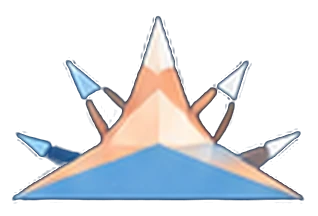
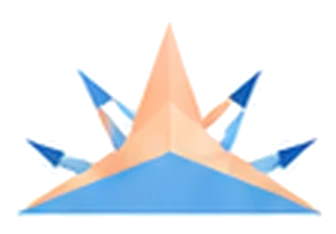
Front page follows Rune's second mockup: bars in trait band, light faceted lower section
Claude-Session: https://claude.ai/code/session_01Ft5ccf8meC1g6FrapTKBEa

Changed region(s): [[0.0283, 0.0556, 0.9623, 0.9444]]

diff --git a/app/design.css b/app/design.css
@@ -1327,36 +1327,35 @@ details.d-ctx-more>div{padding:0}
 .h-hero .d-rfig.is-home{justify-content:flex-start;margin:18px 0 0;max-width:560px}
 .h-hero .d-rfig.is-home .d-rfig-note{text-align:left}
 .h-traits{max-width:1320px;margin:0 auto;padding:clamp(18px,3vw,40px) 0 0;overflow-x:clip}
-.h-traits h2,.h-traits .h-sub,.h-traits .h-example{padding:0 40px}
+.h-traits h2,.h-traits .h-sub{padding:0 40px}
 .h-traits h2{margin:0 0 6px;font:400 clamp(36px,4.4vw,62px)/1.05 Georgia,'Times New Roman',serif;letter-spacing:-.05em;color:var(--title)}
 .h-sub{font-size:clamp(17px,1.5vw,21px);color:#243c5c;margin:0 0 18px}
-.h-example{margin:0 0 -4px;font-size:11px;font-weight:700;letter-spacing:.16em;text-transform:uppercase;color:var(--muted)}
+.h-example{display:inline-block;margin-left:14px;vertical-align:.9em;font:400 13px/1.3 Arial,Helvetica,sans-serif;letter-spacing:0;color:var(--muted)}
 .h-band{list-style:none;margin:0;padding:22px 0 30px;display:grid;grid-template-columns:repeat(5,1fr);position:relative;z-index:1}
-.h-tile{--bg:#7fb0e3;--fg:#102747;--tri:#d8e9f8;--fill:#102747;--track:rgba(16,39,71,.16);position:relative;display:flex;flex-direction:column;align-items:center;justify-content:center;gap:12px;min-height:200px;margin:0 -10px;padding:26px 30px;background:var(--bg);color:var(--fg);text-align:center}
+.h-tile{--bg:#7fb0e3;--fg:#102747;--tri:#d8e9f8;--fill:#102747;--track:#eceeee;position:relative;display:flex;flex-direction:column;align-items:center;justify-content:center;gap:12px;min-height:200px;margin:0 -10px;padding:26px 30px;background:var(--bg);color:var(--fg);text-align:center}
 .h-tile:nth-child(1){clip-path:polygon(4% 18%,100% 0,94% 100%,0 86%)}
 .h-tile:nth-child(2){clip-path:polygon(4% 0,96% 14%,100% 90%,0 100%)}
 .h-tile:nth-child(3){clip-path:polygon(0 12%,92% 2%,100% 100%,6% 92%)}
 .h-tile:nth-child(4){clip-path:polygon(8% 0,100% 6%,96% 92%,0 100%)}
 .h-tile:nth-child(5){clip-path:polygon(0 0,100% 10%,98% 100%,4% 86%)}
-.h-sky{--bg:#8cb8e4}.h-apricot{--bg:#f6b48f;--tri:#e98a62}.h-steel{--bg:#5b93cf;--fg:#fff;--tri:#cfe4f7;--fill:#fffefa;--track:rgba(255,255,255,.28)}.h-ivory{--bg:#f1ece2;--tri:#f6a77e}.h-navy{--bg:#142c52;--fg:#fff;--tri:#6fa7e0;--fill:#f6b48f;--track:rgba(255,255,255,.22)}
+.h-sky{--bg:#8cb8e4;--fill:#f6b48f}.h-apricot{--bg:#f6b48f;--tri:#e98a62}.h-steel{--bg:#5b93cf;--fg:#fff;--tri:#cfe4f7}.h-ivory{--bg:#f1ece2;--tri:#f6a77e;--fill:#93b7cd;--track:#e3e7e9}.h-navy{--bg:#142c52;--fg:#fff;--tri:#6fa7e0;--fill:#f6b48f}
 .h-tri{width:38px;height:34px;background:var(--tri);clip-path:polygon(55% 0,100% 100%,0 82%)}
 .h-name{font-size:clamp(15px,1.3vw,19px);font-weight:600;line-height:1.25;min-height:2.5em;display:flex;align-items:center}
-.h-bar{display:block;width:min(150px,80%);height:7px;border-radius:7px;background:var(--track);overflow:hidden}
+.h-bar{display:block;width:min(170px,82%);height:12px;border-radius:7px;background:var(--track);overflow:hidden}
 .h-bar span{display:block;height:100%;border-radius:7px;background:var(--fill)}
-.h-areas{position:relative;margin-top:-34px;padding:92px 24px 64px;background:#152e4a;color:#fffefa;text-align:center;clip-path:polygon(0 6%,100% 0,100% 100%,0 100%)}
-.h-areas h2{margin:0 0 34px;font:400 clamp(34px,4vw,54px)/1.1 Georgia,'Times New Roman',serif;letter-spacing:-.045em;color:#fffefa}
+.h-facets{position:relative;margin-top:-30px;background:#fbf9f4 url(assets/design/home-facets.svg) center/100% 100% no-repeat}
+.h-areas{position:relative;padding:70px 24px 30px;color:var(--title);text-align:center}
+.h-areas h2{margin:0 0 30px;font:400 clamp(34px,4vw,54px)/1.1 Georgia,'Times New Roman',serif;letter-spacing:-.045em;color:var(--title)}
 .h-area-list{max-width:1040px;margin:0 auto;display:grid;grid-template-columns:repeat(3,1fr)}
 .h-area-list article{padding:4px 24px}
-.h-area-list article+article{border-left:1px solid rgba(255,255,255,.25)}
+.h-area-list article+article{border-left:1px solid rgba(16,39,71,.18)}
 .h-area-list img{display:block;height:74px;width:auto;margin:0 auto 18px}
-.h-area-list h3{margin:0 0 8px;font:400 26px/1.2 Georgia,'Times New Roman',serif;letter-spacing:-.03em;color:#fffefa}
-.h-area-list p{margin:0;font-size:15px;color:#d3dde6}
-.h-closing{position:relative;overflow:hidden;text-align:center;padding:56px 24px 64px}
+.h-area-list h3{margin:0 0 8px;font:400 26px/1.2 Georgia,'Times New Roman',serif;letter-spacing:-.03em;color:var(--title)}
+.h-area-list p{margin:0;font-size:15px;color:#3d5370}
+.h-closing{position:relative;text-align:center;padding:30px 24px 70px}
 .h-closing h2{margin:0 0 24px;font:400 clamp(32px,3.6vw,46px)/1.1 Georgia,'Times New Roman',serif;letter-spacing:-.045em;color:var(--title)}
 .h-closing .button{background:#f6b48f;border-color:#f6b48f;color:var(--ink);min-width:220px;clip-path:polygon(0 0,95% 0,100% 20%,100% 100%,0 100%)}
 .h-closing .button:hover{background:#f3a57b}
-.h-corner{position:absolute;right:0;bottom:0;width:240px;height:150px;background:linear-gradient(135deg,transparent 50%,#9cc3ea 50%);opacity:.9;pointer-events:none}
-.h-corner::before{content:'';position:absolute;right:60px;bottom:0;width:120px;height:110px;background:#f6c3a3;clip-path:polygon(50% 0,100% 100%,0 100%)}
 @media(max-width:1100px){.h-hero-text{max-width:480px}.h-tile{padding:22px 22px}}
 @media(max-width:860px){
   .h-hero{height:auto;overflow:visible}
@@ -1367,7 +1366,8 @@ details.d-ctx-more>div{padding:0}
   .h-hero .button{width:100%;min-width:0}
   .h-hero .d-rfig.is-home{max-width:none}
   .h-traits{padding-top:26px}
-  .h-traits h2,.h-traits .h-sub,.h-traits .h-example{padding:0 20px}
+  .h-traits h2,.h-traits .h-sub{padding:0 20px}
+  .h-example{display:block;margin:6px 0 0}
   .h-band{grid-template-columns:1fr;gap:0;padding:14px 0 26px}
   .h-tile{flex-direction:row;justify-content:flex-start;gap:14px;min-height:0;margin:-3px 0;padding:22px 24px;text-align:left}
   .h-tile:nth-child(n){clip-path:polygon(0 8%,100% 0,100% 92%,0 100%)}
@@ -1375,13 +1375,14 @@ details.d-ctx-more>div{padding:0}
   .h-tri{flex:none;width:26px;height:24px}
   .h-name{flex:1;min-height:0;font-size:16px}
   .h-bar{flex:none;width:34%}
-  .h-areas{margin-top:-20px;padding:64px 20px 44px;clip-path:polygon(0 3%,100% 0,100% 100%,0 100%)}
+  .h-facets{margin-top:-20px}
+  .h-areas{padding:56px 20px 20px}
   .h-area-list{grid-template-columns:1fr;gap:0;text-align:left}
   .h-area-list article{display:grid;grid-template-columns:76px 1fr;column-gap:16px;align-items:center;padding:18px 0}
-  .h-area-list article+article{border-left:0;border-top:1px solid rgba(255,255,255,.2)}
+  .h-area-list article+article{border-left:0;border-top:1px solid rgba(16,39,71,.14)}
   .h-area-list img{grid-row:span 2;height:52px;max-width:76px;object-fit:contain;margin:0}
   .h-area-list h3{font-size:23px;margin:0 0 2px}
   .h-areas h2{margin-bottom:14px}
+  .h-area-list{background:rgba(251,249,244,.82);border-radius:6px;padding:0 14px}
   .h-hero .d-rfig.is-home .d-rfig-label{text-align:left}
-  .h-corner{width:150px;height:96px}.h-corner::before{right:36px;width:76px;height:70px}
 }

diff --git a/app/ui.js b/app/ui.js
@@ -63,7 +63,7 @@ function updateShell(){document.documentElement.lang=language==='no'?'nb':'en';d
 function storePrefs(){try{localStorage.setItem(PREF,JSON.stringify({language,country}));}catch{}}
 async function loadNorms(){try{const r=await fetch('data/norms-us.json');return r.ok?await r.json():null;}catch{return null;}}
 async function load(){const token=++loadToken;try{const paths=language==='no'?['data/questions-no.json','data/report-content-no.json']:['data/questions.json','data/report-content.json'];const data=await Promise.all(paths.map(async p=>{const r=await fetch(p);if(!r.ok)throw Error(p);return r.json();}));if(norms===undefined)norms=await loadNorms();if(token!==loadToken)return;questions=data[0];content=data[1];if(questions.length!==120)throw Error('Expected 120 questions');answers=Object.fromEntries(Object.entries(answers).filter(([k,v])=>questions.some(q=>String(q.id)===k)&&Number.isInteger(v)&&v>=1&&v<=5));index=Math.min(Math.max(index,0),119);if(report)calculate(demo);render();}catch(e){if(token!==loadToken)return;main.innerHTML=`<div class="error"><h1>${tr('A small interruption','En liten avbrytelse')}</h1><p>${tr('The assessment could not load. Please serve the app through its local web server and try again. Your existing answers have not been cleared.','Testen kunne ikke lastes. Åpne appen gjennom den lokale nettserveren og prøv igjen. Lagrede svar er ikke slettet.')}</p><button class="button" id="retry">${tr('Try again','Prøv igjen')}</button></div>`;document.querySelector('#retry').onclick=load;console.error(e);}}
-function home(){const started=Object.keys(answers).length>0,cta=started?tr('Continue the test','Fortsett testen'):tr('Take the test','Ta testen');const tones=['sky','apricot','steel','ivory','navy'],sample=[67,51,38,73,44];main.innerHTML=`<section class="h-hero"><img class="h-hero-art" src="assets/design/home-hero.webp" alt="" aria-hidden="true"><div class="h-hero-text"><h1>${tr('You are more<br>than a type.','Du er mer<br>enn én type.')}</h1><p class="h-lead">${tr('Explore your personality with the Big Five.','Utforsk personligheten din med Big Five.')}</p>${button(cta,'#test')}<p class="h-hint">${tr('Free profile · 120 questions · 15–20 minutes','Gratis profil · 120 spørsmål · 15–20 minutter')}</p>${reportFigureHtml('is-home')}</div><img class="h-hero-art-mobile" src="assets/design/home-hero-mobile.webp" alt="" aria-hidden="true"></section><section class="h-traits"><h2>${tr('Five traits. Your combination.','Fem trekk. Din kombinasjon.')}</h2><p class="h-sub">${tr('Tendencies, not fixed types.','Tendenser, ikke faste typer.')}</p><p class="h-example">${tr('Example profile','Eksempelprofil')}</p><ul class="h-band">${order.map((c,i)=>`<li class="h-tile h-${tones[i]}"><span class="h-tri" aria-hidden="true"></span><span class="h-name">${names[c]()}</span><span class="h-bar" role="img" aria-label="${tr(`Example: ${sample[i]} of 100`,`Eksempel: ${sample[i]} av 100`)}"><span style="width:${sample[i]}%"></span></span></li>`).join('')}</ul></section><section class="h-areas"><h2>${tr('What would you like to understand?','Hva vil du forstå bedre?')}</h2><div class="h-area-list"><article><img src="assets/design/home-area-life.webp" alt="" aria-hidden="true"><h3>${tr('Everyday life','Hverdagen')}</h3><p>${tr('Habits and choices.','Vaner og valg.')}</p></article><article><img src="assets/design/home-area-steps.webp" alt="" aria-hidden="true"><h3>${tr('Your next steps','Dine neste steg')}</h3><p>${tr('Small things to try.','Små ting å prøve.')}</p></article><article><img src="assets/design/home-area-work.webp" alt="" aria-hidden="true"><h3>${tr('Work & career','Arbeidsliv og karriere')}</h3><p>${tr('The way you work.','Måten du jobber på.')}</p></article></div></section><section class="h-closing"><span class="h-corner" aria-hidden="true"></span><h2>${tr('Curious about who you are?','Nysgjerrig på hvem du er?')}</h2>${button(cta,'#test')}<a class="sample-link" href="#demo">${tr('Explore a sample report','Utforsk en eksempelrapport')}</a></section>`;}
+function home(){const started=Object.keys(answers).length>0,cta=started?tr('Continue the test','Fortsett testen'):tr('Take the test','Ta testen');const tones=['sky','apricot','steel','ivory','navy'],sample=[67,51,38,73,44];main.innerHTML=`<section class="h-hero"><img class="h-hero-art" src="assets/design/home-hero.webp" alt="" aria-hidden="true"><div class="h-hero-text"><h1>${tr('You are more<br>than a type.','Du er mer<br>enn én type.')}</h1><p class="h-lead">${tr('Explore your personality with the Big Five.','Utforsk personligheten din med Big Five.')}</p>${button(cta,'#test')}<p class="h-hint">${tr('Free profile · 120 questions · 15–20 minutes','Gratis profil · 120 spørsmål · 15–20 minutter')}</p>${reportFigureHtml('is-home')}</div><img class="h-hero-art-mobile" src="assets/design/home-hero-mobile.webp" alt="" aria-hidden="true"></section><section class="h-traits"><h2>${tr('Five traits. Your combination.','Fem trekk. Din kombinasjon.')} <span class="h-example">${tr('Illustrative example','Illustrert eksempel')}</span></h2><p class="h-sub">${tr('Tendencies, not fixed types.','Tendenser, ikke faste typer.')}</p><ul class="h-band">${order.map((c,i)=>`<li class="h-tile h-${tones[i]}"><span class="h-tri" aria-hidden="true"></span><span class="h-name">${names[c]()}</span><span class="h-bar" role="img" aria-label="${tr(`Example: ${sample[i]} of 100`,`Eksempel: ${sample[i]} av 100`)}"><span style="width:${sample[i]}%"></span></span></li>`).join('')}</ul></section><div class="h-facets"><section class="h-areas"><h2>${tr('What would you like to understand?','Hva vil du forstå bedre?')}</h2><div class="h-area-list"><article><img src="assets/design/home-area-life.webp" alt="" aria-hidden="true"><h3>${tr('Everyday life','Hverdagen')}</h3><p>${tr('Habits and choices.','Vaner og valg.')}</p></article><article><img src="assets/design/home-area-steps.webp" alt="" aria-hidden="true"><h3>${tr('Your next steps','Dine neste steg')}</h3><p>${tr('Small things to try.','Små ting å prøve.')}</p></article><article><img src="assets/design/home-area-work.webp" alt="" aria-hidden="true"><h3>${tr('Work & career','Arbeidsliv og karriere')}</h3><p>${tr('The way you work.','Måten du jobber på.')}</p></article></div></section><section class="h-closing"><h2>${tr('Curious about who you are?','Nysgjerrig på hvem du er?')}</h2>${button(cta,'#test')}<a class="sample-link" href="#demo">${tr('Explore a sample report','Utforsk en eksempelrapport')}</a></section></div>`;}
 // Test helper for previews: ?dev=1 shows a small "Random" button on the question page (remembered in this
 // browser; ?dev=0 turns it off). Remove before launch, see docs/plan.md.
 // Until launch the «Random» test shortcut shows for everyone (Rune 2026-10-14). Set to false, or remove devRandom and its buttons, before going live.

diff --git a/scripts/serve.js b/scripts/serve.js
@@ -3,7 +3,7 @@ import {readFile} from 'node:fs/promises';
 import {fileURLToPath} from 'node:url';
 import path from 'node:path';
 const root=path.resolve(fileURLToPath(new URL('../app/',import.meta.url)));
-const mime={'.html':'text/html; charset=utf-8','.js':'text/javascript; charset=utf-8','.css':'text/css; charset=utf-8','.json':'application/json; charset=utf-8','.png':'image/png','.mp3':'audio/mpeg','.webp':'image/webp','.txt':'text/plain; charset=utf-8'};
+const mime={'.html':'text/html; charset=utf-8','.js':'text/javascript; charset=utf-8','.css':'text/css; charset=utf-8','.json':'application/json; charset=utf-8','.png':'image/png','.mp3':'audio/mpeg','.webp':'image/webp','.svg':'image/svg+xml','.txt':'text/plain; charset=utf-8'};
 http.createServer(async(req,res)=>{
   if(req.method==='POST'&&req.url==='/api/career-report'){
     // Same handler as the Vercel function in api/career-report.js; needs ANTHROPIC_API_KEY in the environment.

diff --git a/docs/decisions.md b/docs/decisions.md
@@ -332,6 +332,6 @@ Registrert fra samtalen 11. oktober 2026. «Valgt» nedenfor viser brukerens utt
 
 ## Ny forside etter Runes mockup 2026-10-15
 - Forsiden følger mockupen Rune delte: stort hovedbilde i fasettstil med paret til høyre, båndet «Fem trekk. Din kombinasjon.», «Hva vil du forstå bedre?» og avsluttende knapp. Bildene er hentet fra mockupen (app/assets/design/home-*.webp).
-- Søylene fra det gamle eksempelkortet ligger nå i trekkbåndet: en tynn søyle under hvert trekknavn, merket «Eksempelprofil». Ingen egen boks.
+- Søylene fra det gamle eksempelkortet ligger nå i trekkbåndet: en tynn søyle under hvert trekknavn, merket «Illustrert eksempel» ved siden av overskriften. Ingen egen boks. «Hva vil du forstå bedre?» og avslutningen ligger på lys bakgrunn med fasettflater, som i Runes andre mockup.
 - Knappen heter «Ta testen» for nye besøkende og «Fortsett testen» når testen er påbegynt.
 - «Relasjonene dine» er byttet med «Dine neste steg», fordi rapporten ikke har et relasjonskapittel. De tre områdene er nå Hverdagen, Dine neste steg og Arbeidsliv og karriere, som alle finnes i rapporten.
